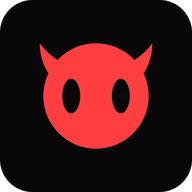
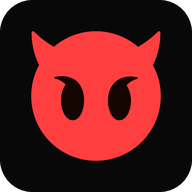
stable v2.5
updated header and icons

Changed region(s): [[0.1562, 0.1562, 0.8438, 0.8438], [0.5625, 0.375, 0.7188, 0.625], [0.2812, 0.375, 0.4375, 0.625]]

diff --git a/index.html b/index.html
@@ -6,7 +6,7 @@
   <meta name="viewport" content="width=device-width, initial-scale=1.0">
   <title>IMP [v1]</title>
   <link rel="manifest" href="manifest.json">
-  <link rel="icon" href="icon.png" type="image/png">
+  <link rel="icon" href="favicon.png" type="image/png">
   <link href="https://fonts.googleapis.com/icon?family=Material+Icons" rel="stylesheet">
   <link href="https://fonts.googleapis.com/css2?family=Lexend+Deca&display=swap" rel="stylesheet">
   <meta property="og:title" content="IMP: Internet Media Player">
@@ -164,7 +164,7 @@
     }
 
     h2 {
-      margin-block-start: 0px;
+      margin-block-start: -4px;
     }
 
     select#typeSelect {
